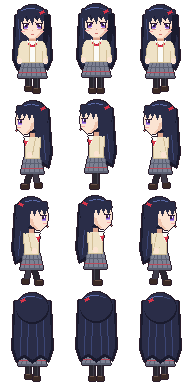
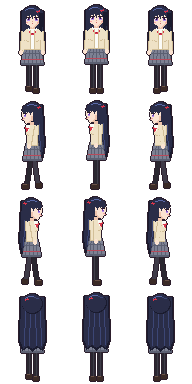
試作キャラの2版目：頭を小さくし（約4.2頭身）、胴と脚を長くしてリアル寄りのバランスに
Claude-Session: https://claude.ai/code/session_017gxvkc2TW4xYgG5MuSL3N1

diff --git a/tools/sprites/make_trial.py b/tools/sprites/make_trial.py
@@ -1,19 +1,22 @@
-"""試作：美少女アニメ風・3頭身の歩行グラフィック（設定なしの自由制作）。img/chars/trial.png に書き出す。
+"""試作：美少女アニメ風の歩行グラフィック（設定なしの自由制作）。img/chars/trial.png に書き出す。
 
 使い方：python3 tools/sprites/make_trial.py
-1コマ64×96px、横3コマ（左足・立ち・右足）×縦4段（下・左・右・上）、等倍。頭 y5〜36、全身 y5〜93。
+1コマ64×96px、横3コマ（左足・立ち・右足）×縦4段（下・左・右・上）、等倍。
+版2：デフォルメを弱め、リアル寄りのバランスに（約4.2頭身：頭 y5〜26、全身 y5〜92）。
+頭は「頭の座標」で描き、HS 倍に縮めて置く（目だけは縮めると潰れるので、別に小さな目を描く）。
 """
 from pathlib import Path
 from PIL import Image, ImageDraw
 
 ROOT = Path(__file__).resolve().parents[2]
 FW, FH, CX = 64, 96, 32
+HS, HOY = 0.62, 3   # 頭の縮め方と、頭の上端の位置
 OUT = (44, 30, 44, 255)
 
 PAL = {
     'H': '#2a2d48', 'h': '#1a1b2e', 'L': '#5b6aa8', 'l': '#3c4675',   # 髪（黒に青いつや）
     'S': '#fbe3d2', 's': '#efc4ad', 't': '#dea48c', 'p': '#f6a6a6',   # 肌・影・赤み
-    'E': '#2b1a2a', 'I': '#4b2a7a', 'J': '#7c4fc0', 'K': '#b691ee', 'e': '#ffffff',  # 目（まつげ・瞳3段・光）
+    'E': '#2b1a2a', 'I': '#4b2a7a', 'J': '#7c4fc0', 'K': '#b691ee', 'e': '#ffffff',  # 目
     'm': '#d0706e', 'R': '#d8344a', 'r': '#9c1f33',                   # 口・リボン
     'W': '#fbfbf7', 'w': '#d9dbe4',                                   # ブラウス
     'C': '#efe2c6', 'c': '#d2bf98',                                   # カーディガン
@@ -23,152 +26,134 @@ PAL = {
 
 
 class Pen:
-    def __init__(self):
+    """head=True のときは頭の座標（大きく描いた座標）を HS 倍に縮めて置く"""
+
+    def __init__(self, head=False):
+        self.head = head
         self.pal = {k: tuple(int(v[i:i + 2], 16) for i in (1, 3, 5)) + (255,) for k, v in PAL.items()}
         self.im = Image.new('RGBA', (FW, FH), (0, 0, 0, 0))
         self.d = ImageDraw.Draw(self.im)
 
+    def t(self, x, y):
+        if self.head:
+            return (round(CX + x * HS), round(HOY + y * HS))
+        return (CX + x, y)
+
     def ell(self, x0, y0, x1, y1, k):
-        self.d.ellipse((CX + x0, y0, CX + x1, y1), fill=self.pal[k])
+        self.d.ellipse(self.t(x0, y0) + self.t(x1, y1), fill=self.pal[k])
 
     def rect(self, x0, y0, x1, y1, k):
-        self.d.rectangle((CX + x0, y0, CX + x1, y1), fill=self.pal[k])
+        self.d.rectangle(self.t(x0, y0) + self.t(x1, y1), fill=self.pal[k])
 
     def poly(self, pts, k):
-        self.d.polygon([(CX + x, y) for x, y in pts], fill=self.pal[k])
+        self.d.polygon([self.t(x, y) for x, y in pts], fill=self.pal[k])
 
     def line(self, pts, k):
-        self.d.line([(CX + x, y) for x, y in pts], fill=self.pal[k])
+        self.d.line([self.t(x, y) for x, y in pts], fill=self.pal[k])
 
     def px(self, pts, k):
         for x, y in pts:
-            self.d.point((CX + x, y), fill=self.pal[k])
+            self.d.point(self.t(x, y), fill=self.pal[k])
 
 
 LIFT = {0: (2, 0), 1: (0, 0), 2: (0, 2)}
 
 
-# ---------------- 下半身 ----------------
+# ---------------- 下半身（脚は長め） ----------------
 def legs(p, step, side):
     la, ra = LIFT[step]
     if side == 'left':
         if step == 1:
-            p.rect(-3, 74, 2, 88, 'T'); p.line([(1, 75), (1, 87)], 'u')
-            p.rect(-6, 88, 2, 92, 'B'); p.line([(-5, 88), (0, 88)], 'b')
+            p.rect(-2, 62, 2, 88, 'T'); p.line([(1, 63), (1, 87)], 'u')
+            p.rect(-5, 88, 2, 92, 'B'); p.line([(-4, 88), (0, 88)], 'b')
         else:
-            p.poly([(0, 74), (4, 74), (7, 88), (3, 88)], 'u')
-            p.rect(3, 87, 9, 91, 'B')
-            p.poly([(-4, 74), (0, 74), (-4, 88), (-8, 88)], 'T')
-            p.rect(-11, 88, -4, 92, 'B'); p.line([(-10, 88), (-6, 88)], 'b')
+            p.poly([(0, 62), (3, 62), (7, 88), (4, 88)], 'u')
+            p.rect(4, 87, 9, 91, 'B')
+            p.poly([(-3, 62), (0, 62), (-4, 88), (-7, 88)], 'T')
+            p.rect(-10, 88, -4, 92, 'B'); p.line([(-9, 88), (-6, 88)], 'b')
         return
-    p.rect(-6, 74, -2, 88 - la, 'T'); p.line([(-3, 75), (-3, 87 - la)], 'u')
-    p.rect(2, 74, 6, 88 - ra, 'T'); p.line([(5, 75), (5, 87 - ra)], 'u')
-    p.rect(-7, 88 - la, -1, 92 - la, 'B'); p.line([(-6, 88 - la), (-3, 88 - la)], 'b')
-    p.rect(1, 88 - ra, 7, 92 - ra, 'B'); p.line([(2, 88 - ra), (5, 88 - ra)], 'b')
+    p.rect(-5, 62, -2, 88 - la, 'T'); p.line([(-3, 63), (-3, 87 - la)], 'u')
+    p.rect(2, 62, 5, 88 - ra, 'T'); p.line([(4, 63), (4, 87 - ra)], 'u')
+    p.rect(-6, 88 - la, -1, 92 - la, 'B'); p.line([(-5, 88 - la), (-3, 88 - la)], 'b')
+    p.rect(1, 88 - ra, 6, 92 - ra, 'B'); p.line([(2, 88 - ra), (4, 88 - ra)], 'b')
 
 
 def skirt(p, side):
-    w0, w1 = (10, 14) if side != 'left' else (8, 11)
-    p.poly([(-w0, 60), (w0, 60), (w1, 76), (-w1, 76)], 'g')
-    p.poly([(-w0, 60), (w0 - 1, 60), (w1 - 1, 74), (-w1, 74)], 'G')
-    for x in range(-w1 + 3, w1, 5):  # チェック（縦）
-        p.line([(round(x * 0.75), 61), (x, 75)], 'g')
-    p.line([(-w0 - 1, 66), (w0 + 1, 66)], 'g')  # チェック（横）
-    p.line([(-w1 + 1, 71), (w1 - 1, 71)], 'x')
+    w0, w1 = (8, 11) if side != 'left' else (6, 9)
+    p.poly([(-w0, 46), (w0, 46), (w1, 63), (-w1, 63)], 'g')
+    p.poly([(-w0, 46), (w0 - 1, 46), (w1 - 1, 61), (-w1, 61)], 'G')
+    for x in range(-w1 + 3, w1, 4):
+        p.line([(round(x * 0.75), 47), (x, 62)], 'g')
+    p.line([(-w0 - 1, 52), (w0 + 1, 52)], 'g')
+    p.line([(-w1 + 1, 58), (w1 - 1, 58)], 'x')
 
 
-# ---------------- 上半身 ----------------
+# ---------------- 上半身（肩幅は控えめ、胴は長め） ----------------
 def torso_front(p, back):
-    p.rect(-3, 36, 3, 41, 't')
-    p.poly([(-11, 40), (11, 40), (10, 61), (-10, 61)], 'c')
-    p.poly([(-11, 40), (10, 40), (9, 60), (-10, 60)], 'C')
+    p.rect(-2, 24, 2, 29, 's')
+    p.line([(-2, 25), (2, 25)], 't')
+    p.poly([(-9, 28), (9, 28), (8, 48), (-8, 48)], 'c')
+    p.poly([(-9, 28), (8, 28), (7, 47), (-8, 47)], 'C')
     if not back:
-        p.poly([(-3, 40), (3, 40), (2, 60), (-2, 60)], 'W')  # 前の開きからブラウス
-        p.poly([(-5, 39), (0, 42), (5, 39), (4, 43), (0, 44), (-4, 43)], 'W')  # 襟
-        p.poly([(-4, 42), (0, 44), (4, 42), (3, 46), (0, 45), (-3, 46)], 'R')  # リボン
-        p.px([(0, 44)], 'r')
-        p.px([(-3, 49), (-3, 54)], 'c')  # ボタン
-        p.line([(-3, 41), (-3, 60)], 'c')
-        p.line([(3, 41), (3, 60)], 'c')
+        p.poly([(-2, 28), (2, 28), (2, 47), (-2, 47)], 'W')
+        p.poly([(-4, 27), (0, 30), (4, 27), (3, 31), (0, 32), (-3, 31)], 'W')
+        p.poly([(-3, 30), (0, 32), (3, 30), (2, 34), (0, 33), (-2, 34)], 'R')
+        p.px([(0, 32)], 'r')
+        p.line([(-2, 29), (-2, 47)], 'c'); p.line([(2, 29), (2, 47)], 'c')
+        p.px([(-2, 37), (-2, 42)], 'c')
+        p.line([(-6, 39), (-4, 40)], 'c'); p.line([(6, 39), (4, 40)], 'c')  # 胸のしわ
     else:
-        p.line([(0, 44), (0, 59)], 'c')
-    for s in (-1, 1):  # 長袖の腕と手
-        p.poly([(s * 10, 41), (s * 13, 42), (s * 15, 58), (s * 11, 59)], 'c')
-        p.poly([(s * 10, 41), (s * 12, 42), (s * 14, 57), (s * 11, 58)], 'C')
-        p.ell(s * 13 - 2, 57, s * 13 + 2, 62, 'S')
-        p.px([(s * 13 + (1 if s > 0 else -1), 61)], 's')
+        p.line([(0, 31), (0, 46)], 'c')
+    for s in (-1, 1):  # 長袖の腕（腰まで）と手
+        p.poly([(s * 8, 29), (s * 11, 30), (s * 12, 49), (s * 9, 50)], 'c')
+        p.poly([(s * 8, 29), (s * 10, 30), (s * 11, 48), (s * 9, 49)], 'C')
+        p.ell(s * 11 - 2, 49, s * 11 + 1, 53, 'S')
+        p.px([(s * 11, 53)], 's')
 
 
 def torso_side(p, step):
     swing = {0: -3, 1: 0, 2: 3}[step]
-    p.rect(-2, 36, 2, 41, 't')
-    p.poly([(-7, 40), (8, 40), (7, 61), (-7, 61)], 'c')
-    p.poly([(-7, 40), (7, 40), (6, 60), (-6, 60)], 'C')
-    p.poly([(-8, 40), (-4, 40), (-5, 46)], 'W')
-    p.poly([(-8, 43), (-5, 44), (-7, 48)], 'R')
-    p.poly([(-2, 41), (3, 41), (3 + swing, 57), (-2 + swing, 57)], 'c')
-    p.poly([(-2, 41), (2, 41), (2 + swing, 56), (-2 + swing, 56)], 'C')
-    p.ell(-2 + swing, 55, 2 + swing, 60, 'S')
+    p.rect(-2, 24, 1, 29, 's')
+    p.poly([(-6, 28), (6, 28), (5, 48), (-5, 48)], 'c')
+    p.poly([(-6, 28), (5, 28), (4, 47), (-5, 47)], 'C')
+    p.poly([(-6, 28), (-3, 28), (-4, 33)], 'W')
+    p.poly([(-7, 30), (-4, 31), (-6, 34)], 'R')
+    p.line([(-5, 37), (-3, 38)], 'c')
+    p.poly([(-2, 29), (2, 29), (2 + swing, 48), (-2 + swing, 48)], 'c')
+    p.poly([(-2, 29), (1, 29), (1 + swing, 47), (-2 + swing, 47)], 'C')
+    p.ell(-2 + swing, 47, 1 + swing, 51, 'S')
 
 
-# ---------------- 頭 ----------------
-def eye(p, x, flip=False):
-    """アニメ風の目（横5×縦7）：まつげ・瞳のグラデーション・瞳孔・光2つ"""
-    f = (lambda dx: x - dx) if flip else (lambda dx: x + dx)
-    p.line([(f(-1), 22), (f(5), 22)], 'E')          # 上まつげ
-    p.px([(f(5), 23), (f(6), 21)], 'E')              # 目じりのはね
-    for dx in range(0, 5):
-        p.line([(f(dx), 23), (f(dx), 24)], 'I')
-        p.line([(f(dx), 25), (f(dx), 26)], 'J')
-        p.px([(f(dx), 27)], 'K')
-    p.px([(f(0), 23), (f(0), 24), (f(0), 25), (f(0), 26), (f(0), 27)], 'E')  # 目がしら側の縁
-    p.px([(f(2), 24), (f(3), 24), (f(2), 25), (f(3), 25)], 'E')            # 瞳孔
-    p.px([(f(1), 23), (f(1), 24), (f(2), 23)], 'e')                         # 大きな光
-    p.px([(f(4), 27)], 'e')                                                 # 小さな光
-    p.line([(f(1), 28), (f(4), 28)], 't')                                   # 下まつげ（淡く）
-
-
+# ---------------- 頭（頭の座標で描き、縮めて置く） ----------------
 def hair_back_long(p, side):
+    """背中の中ほどまでの長い髪（体の座標）"""
     if side == 'down':
-        p.poly([(-17, 14), (17, 14), (19, 58), (15, 68), (8, 64), (0, 70), (-8, 64), (-15, 68), (-19, 58)], 'h')
-        p.poly([(-16, 14), (16, 14), (17, 57), (14, 65), (8, 61), (0, 66), (-8, 61), (-14, 65), (-17, 57)], 'H')
+        p.poly([(-11, 10), (11, 10), (12, 50), (9, 58), (4, 55), (0, 59), (-4, 55), (-9, 58), (-12, 50)], 'h')
+        p.poly([(-10, 10), (10, 10), (11, 49), (8, 56), (4, 53), (0, 56), (-4, 53), (-8, 56), (-11, 49)], 'H')
     elif side == 'up':
-        p.poly([(-18, 12), (18, 12), (20, 60), (16, 72), (8, 68), (0, 74), (-8, 68), (-16, 72), (-20, 60)], 'h')
-        p.poly([(-17, 12), (17, 12), (18, 59), (15, 69), (8, 65), (0, 70), (-8, 65), (-15, 69), (-18, 59)], 'H')
-        for x in (-11, -4, 4, 11):  # 毛の流れ
-            p.line([(x, 30), (x + (1 if x > 0 else -1), 66)], 'l')
+        p.poly([(-12, 8), (12, 8), (13, 52), (10, 61), (5, 58), (0, 62), (-5, 58), (-10, 61), (-13, 52)], 'h')
+        p.poly([(-11, 8), (11, 8), (12, 51), (9, 59), (5, 56), (0, 59), (-5, 56), (-9, 59), (-12, 51)], 'H')
+        for x in (-7, -2, 3, 8):
+            p.line([(x, 22), (x + (1 if x > 0 else -1), 56)], 'l')
     else:
-        p.poly([(-2, 12), (16, 12), (19, 56), (16, 70), (8, 66), (2, 52)], 'h')
-        p.poly([(-1, 12), (15, 12), (17, 55), (15, 67), (8, 63), (3, 51)], 'H')
-        p.line([(10, 24), (13, 62)], 'l')
+        p.poly([(-1, 8), (10, 8), (12, 48), (10, 60), (5, 57), (2, 44)], 'h')
+        p.poly([(0, 8), (9, 8), (11, 47), (9, 57), (5, 54), (3, 43)], 'H')
+        p.line([(6, 18), (8, 52)], 'l')
 
 
 def head_front(p):
-    p.ell(-16, 4, 16, 34, 'h')                       # 髪のかたまり
+    p.ell(-16, 4, 16, 34, 'h')
     p.ell(-16, 4, 15, 32, 'H')
-    # 顔：上は丸く、あごはとがる
     p.ell(-12, 12, 12, 34, 'S')
     p.poly([(-12, 24), (12, 24), (10, 31), (4, 36), (0, 37), (-4, 36), (-10, 31)], 'S')
-    p.poly([(10, 26), (12, 24), (10, 31), (5, 36), (3, 36), (8, 31)], 's')  # 右の頬の影
-    p.line([(-3, 37), (3, 37)], 's')
-    # 前髪：束ごとに分かれて垂れる
+    p.poly([(10, 26), (12, 24), (10, 31), (5, 36), (3, 36), (8, 31)], 's')
     p.rect(-14, 9, 14, 15, 'H')
     for x0, x1, y in [(-14, -8, 22), (-9, -3, 20), (-4, 2, 23), (1, 7, 19), (6, 12, 21), (11, 15, 24)]:
         p.poly([(x0, 14), (x1, 14), ((x0 + x1) // 2 + 1, y)], 'H')
-    for x, y in [(-6, 15), (4, 15)]:  # 束の間のかげ
-        p.line([(x, y), (x + 1, y + 4)], 'h')
-    # 顔の横の触角のような髪
     p.poly([(-16, 14), (-12, 14), (-11, 40), (-14, 44), (-16, 30)], 'H')
     p.poly([(16, 14), (12, 14), (11, 40), (14, 44), (16, 30)], 'h')
-    p.line([(-14, 18), (-13, 38)], 'l')
-    # つや（天使の輪）
     p.line([(-11, 9), (-5, 7)], 'L'); p.line([(-4, 7), (2, 7)], 'L'); p.line([(4, 8), (9, 9)], 'l')
-    eye(p, -9)
-    eye(p, 9, flip=True)
-    p.line([(-11, 30), (-8, 30)], 'p'); p.line([(8, 30), (11, 30)], 'p')   # 頬の赤み
-    p.px([(0, 29)], 't')                                                   # 鼻
-    p.line([(-1, 33), (1, 33)], 'm')                                       # 口
-    p.poly([(7, 11), (11, 9), (12, 11), (8, 13)], 'R')                     # ヘアピン
+    p.poly([(7, 11), (11, 9), (12, 11), (8, 13)], 'R')
 
 
 def head_side(p):
@@ -182,15 +167,6 @@ def head_side(p):
         p.poly([(x0, 14), (x1, 14), ((x0 + x1) // 2, y)], 'H')
     p.poly([(1, 12), (15, 12), (14, 36), (6, 40), (2, 30)], 'H')
     p.line([(-8, 8), (-2, 7)], 'L'); p.line([(0, 7), (6, 8)], 'L')
-    # 横向きの目（手前の1つ）
-    p.line([(-15, 22), (-9, 22)], 'E'); p.px([(-9, 21)], 'E')
-    for dx in range(4):
-        x = -14 + dx
-        p.line([(x, 23), (x, 24)], 'I'); p.line([(x, 25), (x, 26)], 'J'); p.px([(x, 27)], 'K')
-    p.px([(-12, 24), (-12, 25), (-11, 24), (-11, 25)], 'E')
-    p.px([(-13, 23), (-13, 24)], 'e')
-    p.line([(-15, 30), (-12, 30)], 'p')
-    p.px([(-16, 33)], 'm')
     p.poly([(8, 11), (12, 9), (13, 11), (9, 13)], 'R')
 
 
@@ -199,6 +175,33 @@ def head_back(p):
     p.ell(-16, 4, 15, 32, 'H')
     p.line([(-11, 9), (-5, 7)], 'L'); p.line([(-4, 7), (2, 7)], 'L'); p.line([(4, 8), (9, 9)], 'l')
     p.poly([(-12, 11), (-8, 9), (-7, 11), (-11, 13)], 'R')
+
+
+# 顔の細部は縮めずに体の座標で描く（縮めると潰れるため）
+def small_eye(p, x, flip=False):
+    """目（横3×縦4）：まつげ・瞳のグラデーション・光"""
+    f = (lambda dx: x - dx) if flip else (lambda dx: x + dx)
+    p.line([(f(-1), 16), (f(3), 16)], 'E')
+    for dx in range(3):
+        p.px([(f(dx), 17)], 'I'); p.px([(f(dx), 18)], 'J'); p.px([(f(dx), 19)], 'K')
+    p.px([(f(1), 17), (f(1), 18)], 'E')
+    p.px([(f(0), 17)], 'e')
+
+
+def face_front(p):
+    small_eye(p, -5)
+    small_eye(p, 5, flip=True)
+    p.px([(-6, 21), (-5, 21), (5, 21), (6, 21)], 'p')
+    p.px([(0, 20)], 't')
+    p.px([(0, 22)], 'm')
+
+
+def face_side(p):
+    p.line([(-9, 16), (-6, 16)], 'E')
+    p.px([(-8, 17), (-7, 17)], 'I'); p.px([(-8, 18), (-7, 18)], 'J'); p.px([(-8, 19), (-7, 19)], 'K')
+    p.px([(-8, 17)], 'e')
+    p.px([(-9, 21), (-8, 21)], 'p')
+    p.px([(-10, 22)], 'm')
 
 
 def outline(im):
@@ -216,20 +219,25 @@ def outline(im):
 def frame(d, step):
     side = 'left' if d in ('left', 'right') else d
     bob = 0 if step == 1 else 1
-    back_l, low, up = Pen(), Pen(), Pen()
+    back_l, low, up, hd = Pen(), Pen(), Pen(), Pen(head=True)
     if side != 'up':
         hair_back_long(back_l, side)
     legs(low, step, side)
     if side == 'left':
-        skirt(up, 'left'); torso_side(up, step); head_side(up)
+        skirt(up, 'left'); torso_side(up, step); head_side(hd)
     elif side == 'up':
-        skirt(up, 'down'); torso_front(up, True); hair_back_long(up, 'up'); head_back(up)
+        skirt(up, 'down'); torso_front(up, True); hair_back_long(up, 'up'); head_back(hd)
     else:
-        skirt(up, 'down'); torso_front(up, False); head_front(up)
+        skirt(up, 'down'); torso_front(up, False); head_front(hd)
     im = Image.new('RGBA', (FW, FH), (0, 0, 0, 0))
     im.alpha_composite(back_l.im, (0, bob))
     im.alpha_composite(low.im, (0, 0))
     im.alpha_composite(up.im, (0, bob))
+    im.alpha_composite(hd.im, (0, bob))
+    if side == 'down':
+        fp = Pen(); face_front(fp); im.alpha_composite(fp.im, (0, bob))
+    elif side == 'left':
+        fp = Pen(); face_side(fp); im.alpha_composite(fp.im, (0, bob))
     im = outline(im)
     return im.transpose(Image.FLIP_LEFT_RIGHT) if d == 'right' else im
 
